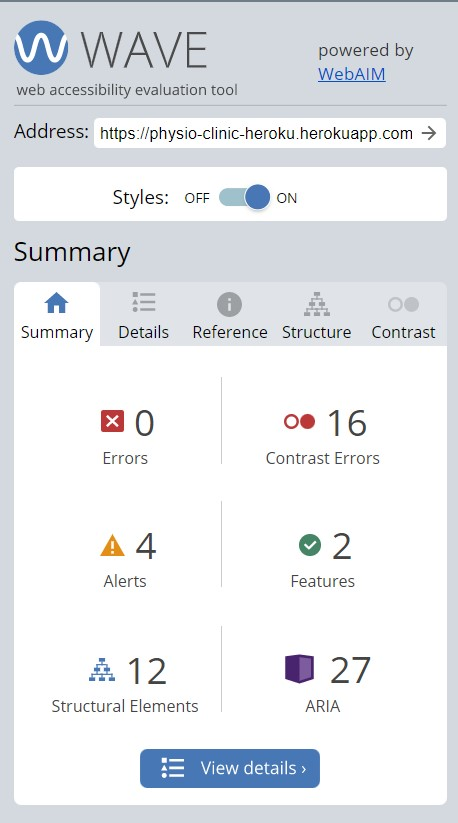
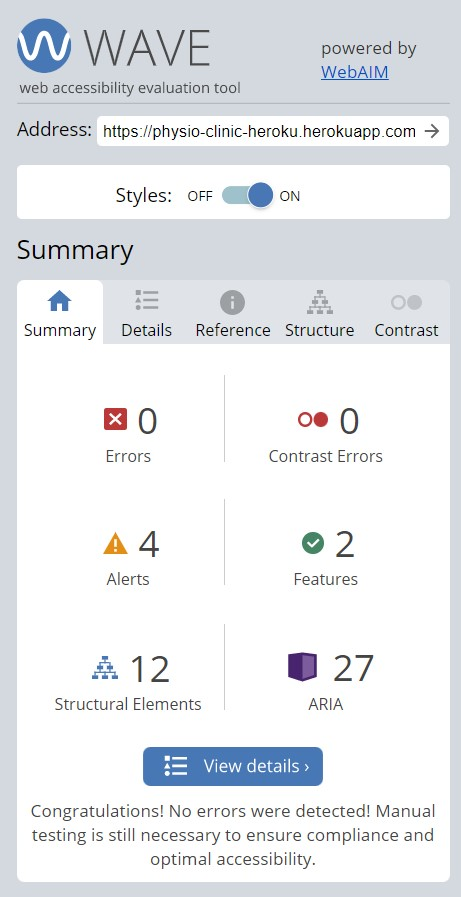
Add Accessibility test results

diff --git a/templates/post_detail.html b/templates/post_detail.html
@@ -10,7 +10,7 @@
             <div class="col-md-6 details-text">
                 <h1>{{ post.title }}</h1>
                 <p class="post-subtitle">{{ post.author }} | {{ post.created_on }}</p>
-                <p class="card-text col-md-9 text-secondary">{{ post.excerpt }}</p>
+                <p class="card-text col-md-9 text-muted">{{ post.excerpt }}</p>
             </div>
             <div class="d-sm-block col-md-6">
                 <div class="details-image"> 

diff --git a/static/css/style.css b/static/css/style.css
@@ -39,7 +39,7 @@ a {
     border: none;
     border-radius: 3px;
     margin: 10px 3px;
-    font-weight: bold;
+    font-weight: 500;
 }
 
 .btn-attn {

diff --git a/readme/validation_testing.md b/readme/validation_testing.md
@@ -61,26 +61,18 @@ Optimal visibility and functionality on various devices was tested throughout th
 <br>
 
 ### Accessibility
-Testing for accessibility of the site was carried out with the employment of [WAVE Web Accessibility Evaluation Tool](https://wave.webaim.org/). No errors were found. Alerts were addressed where needed.
+Testing for accessibility of the site was carried out with the employment of [WAVE Web Accessibility Evaluation Tool](https://wave.webaim.org/). Initially contrast errors were found. These errors were addressed by increasing contrast on fonts against background and introducing Contrast toggle button in the top left corner. Switching to increased contrast sets font colours outside original colour scheme but enhances reading comfort for users with such visual needs. This functionality works accross all the website. Alerts were addressed where needed.
 <details>
     <summary>Home</summary>
     <img src="../readme/docs/images/testing/validation/validation-accessibility-index.jpg">
-
-    Web accessibility alerts indicated a repeated links. These are important for optimal user experience in this case.
 </details>
 <details>
-    <summary>Campervans</summary>
-    <img src="../readme/docs/images/testing/validation/validation-accessibility-campervans.jpg">
-
-    Alerts related to Campervans page indicated to repeated alternative texts in carousel. This is due to similar nature of images in the carousel.
+    <summary>Polls</summary>
+    <img src="../readme/docs/images/testing/validation/validation-accessibility-polls.jpg">
 </details>
 <details>
-    <summary>Garage</summary>
-    <img src="../readme/docs/images/testing/validation/validation-accessibility-garage.jpg">
-</details>
-<details>
-    <summary>FAQ</summary>
-    <img src="../readme/docs/images/testing/validation/validation-accessibility-faq.jpg">
+    <summary>Login</summary>
+    <img src="../readme/docs/images/testing/validation/validation-accessibility-login.jpg">
 </details>
 <details>
     <summary>Contact</summary>
